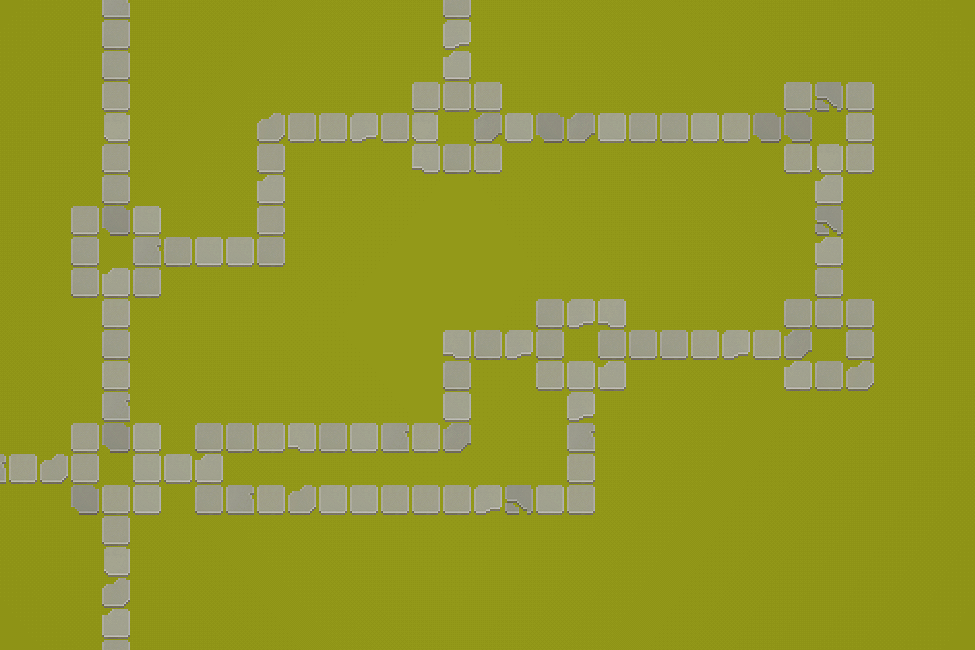
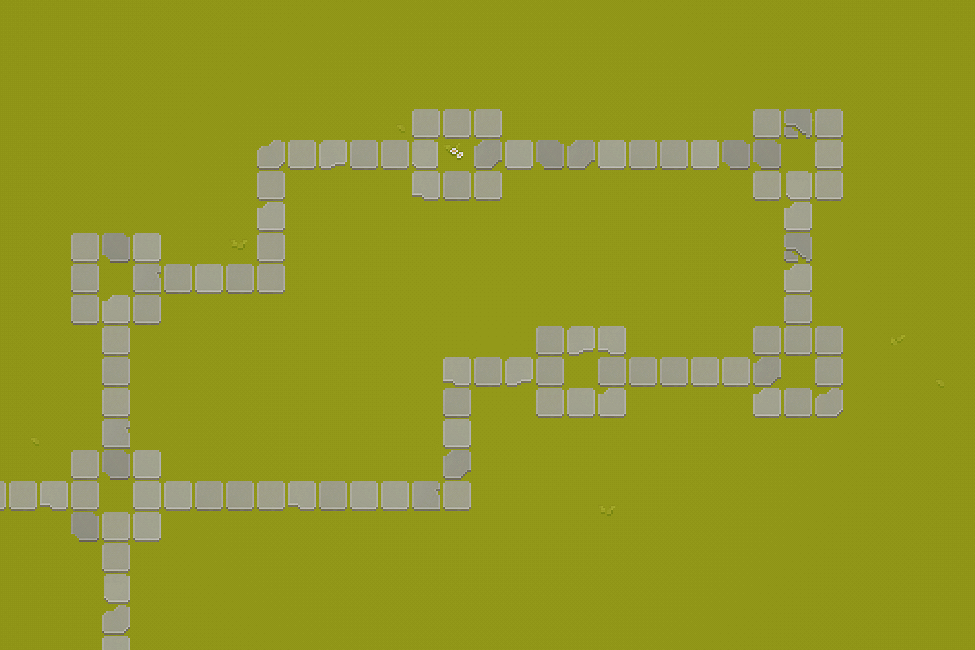
Update building slots and bus path in config.py
Adjusted coordinates and sizes for building slots to better match new asset positions. Updated the bus path waypoints to reflect changes in the map layout and improve route accuracy. Modified background and added new building asset images.

Changed region(s): [[0.0, 0.0, 0.9231, 0.9846], [0.0615, 0.0, 0.3077, 0.5538]]

diff --git a/config.py b/config.py
@@ -14,13 +14,13 @@ RED = (255, 0, 0)
 
 # Slots fixos para construir prédios (x, y, largura, altura, tipo)
 BUILDING_SLOTS = [
-    (125, 325, 70, 70), # AT10
-    (310, 170, 70, 70), # AT4
-    (715, 195, 70, 70), # AT5
-    (870, 195, 70, 70), # AT7
-    (200, 540, 140, 70), # Departamento Física
-    (530, 170, 140, 70), # Departamento Materiais
-    (275, 325, 140, 70), # BCO
+    (155, 360, 77, 54), # AT10
+    (310, 190, 77, 54), # AT4
+    (690, 230, 77, 54), # AT5
+    (830, 230, 77, 54), # AT7
+    (200, 540, 143, 60), # Departamento Física
+    (525, 190, 149, 60), # Departamento Materiais
+    (275, 390, 140, 70), # BCO
 ]
 
 # Tipo de prédio correspondente a cada slot
@@ -78,77 +78,43 @@ BUS_SPAWN_SCHEDULE = [
 ]
 
 # Caminho dos ônibus: lista de waypoints (x, y)
-BUS_PATH_1 = [
-    (75, 650),
-    (75, 490), # Rotatoria
-    (105, 490),
-    (105, 460),
-    (170, 460),
-    (170, 490),
-    (570, 490),
-    (570, 365),
-    (600, 365),
-    (600, 335), #
-    (790, 335),
-    (790, 365),
-    (850, 365),
-    (850, 305),
-    (790, 305),
-    (790, 335),
-    (600, 335),
-    (600, 305),
-    (540, 305),
-    (540, 335),
-    (450, 335),
-    (450, 425),
-    (170, 425),
-    (170, 460),
-    (105, 460),
-    (105, 430),
-    (45, 430),
-    (45, 490),
-    (75, 490),
-    (75, 650),
-]
-
-# Caminho dos ônibus: lista de waypoints (x, y)
 BUS_PATH = [
-    (75, 650),
-    (75, 490),
-    (105, 490),
+    (105, 680),
+    (105, 520),
+    (75, 520),
+    (75, 460),
     (105, 460),
-    (170, 460),
-    (170, 490),
-    (570, 490),
-    (570, 365),
-    (600, 365),
-    (600, 335), 
-    (790, 335),
-    (790, 365),
-    (850, 365),
-    (850, 305),
-    (820, 305),
-    (820, 150),
-    (850, 150),
-    (850, 85),
-    (790, 85),
-    (790, 115),
-    (480, 115),
-    (480, 85),
-    (415, 85),
-    (415, 120),
-    (260, 120),
-    (260, 240),
-    (105, 240),
-    (105, 210),
-    (45, 210),
-    (45, 270),
-    (75, 270),
-    (75, 430),
-    (45, 430),
-    (45, 490),
-    (75, 490),
-    (75, 650),
+    (105, 300),
+    (75, 300),
+    (75, 240),
+    (135, 240),
+    (135, 270),
+    (290, 270),
+    (290, 150),
+    (445, 150),
+    (445, 115),
+    (510, 115),
+    (510, 145),
+    (820, 145),
+    (820, 115),
+    (880, 115),
+    (880, 180),
+    (850, 180),
+    (850, 335),
+    (880, 335),
+    (880, 395),
+    (820, 395),
+    (820, 365),
+    (630, 365),
+    (630, 395),
+    (600, 395),
+    (600, 520),
+    (200, 520),
+    (200, 490),
+    (135, 490),
+    (135, 520),
+    (105, 520),
+    (105, 680),
 ]
 
 # Recursos iniciais
